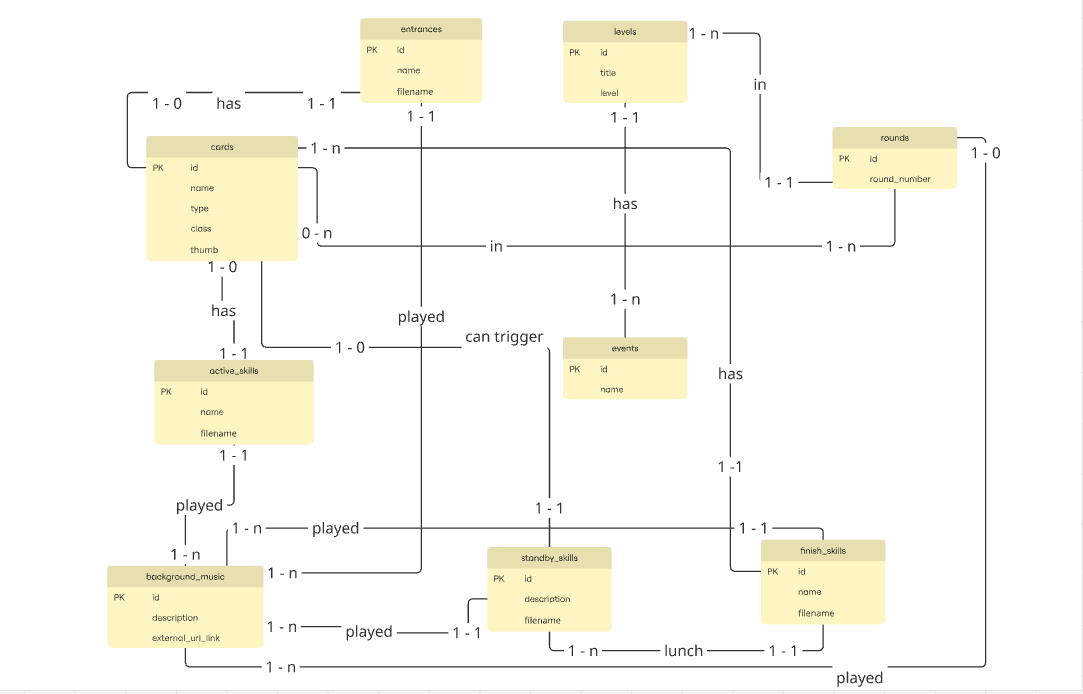
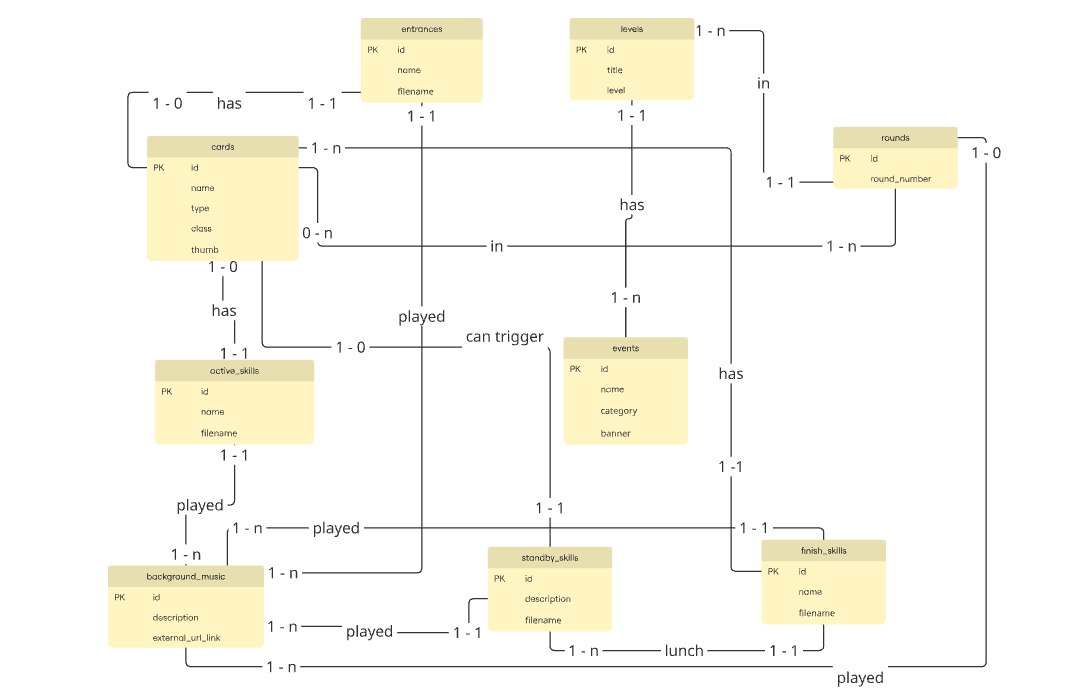
maj des schémas et début de la page event details

diff --git a/dokkan_ost_front/src/app/components/events/event-details/event-details.component.ts b/dokkan_ost_front/src/app/components/events/event-details/event-details.component.ts
@@ -1,0 +1,28 @@
+import { AsyncPipe } from '@angular/common';
+import { Component, inject, input, signal } from '@angular/core';
+import { toObservable } from '@angular/core/rxjs-interop';
+import { EventService } from '@services/event/event.service';
+import { keysToCamel } from 'app/helpers/helpers';
+import { catchError, EMPTY, map, switchMap } from 'rxjs';
+
+@Component({
+  selector: 'app-event-details',
+  imports: [AsyncPipe],
+  templateUrl: './event-details.component.html',
+  styleUrl: './event-details.component.scss',
+})
+export class EventDetailsComponent {
+  private readonly eventService = inject(EventService);
+  error = signal('');
+  id = input<string>('');
+  levels$ = toObservable(this.id).pipe(
+    switchMap((id) => {
+      return this.eventService.getEventById(+id).pipe(
+        catchError(() => {
+          this.error.set("Card can't be fetch");
+          return EMPTY;
+        })
+      );
+    })
+  );
+}

diff --git a/dokkan_ost_front/src/app/services/event/event.service.ts b/dokkan_ost_front/src/app/services/event/event.service.ts
@@ -1,0 +1,25 @@
+import { HttpClient } from '@angular/common/http';
+import { inject, Injectable } from '@angular/core';
+import { Event } from 'app/models/event.interface';
+import { Level } from 'app/models/level.interface';
+import { environment } from 'environments/environment';
+import { Observable } from 'rxjs';
+
+@Injectable({
+  providedIn: 'root',
+})
+export class EventService {
+  private readonly httpService = inject(HttpClient);
+  apiUrl = environment.API_URL;
+  constructor() {}
+
+  getEvents(): Observable<Event[]> {
+    return this.httpService.get<Event[]>(`${this.apiUrl}/events`);
+  }
+
+  getEventById(id: number): Observable<Level[]> {
+    console.log(id);
+
+    return this.httpService.get<Level[]>(`${this.apiUrl}/events/${id}/levels`);
+  }
+}

diff --git a/dokkan_ost_front/src/app/components/events/event-list/event-list.component.ts b/dokkan_ost_front/src/app/components/events/event-list/event-list.component.ts
@@ -1,11 +1,17 @@
-import { Component } from '@angular/core';
+import { AsyncPipe } from '@angular/common';
+import { Component, inject } from '@angular/core';
+import { RouterModule } from '@angular/router';
+import { EventService } from '@services/event/event.service';
+import { environment } from 'environments/environment';
 
 @Component({
   selector: 'app-event-list',
-  imports: [],
+  imports: [AsyncPipe, RouterModule],
   templateUrl: './event-list.component.html',
-  styleUrl: './event-list.component.scss'
+  styleUrl: './event-list.component.scss',
 })
 export class EventListComponent {
-
+  private readonly eventService = inject(EventService);
+  apiUrl = environment.API_URL;
+  events$ = this.eventService.getEvents();
 }

diff --git a/dokkan_ost_back/src/routes/event_routes.ts b/dokkan_ost_back/src/routes/event_routes.ts
@@ -14,7 +14,20 @@ eventRoutes.get("/events", async (req: Request, res: Response) => {
     res.status(500).json({ error: "Error fetching events" });
   }
 });
+eventRoutes.get("/events/:id/levels", async (req: Request, res: Response) => {
+  try {
+    const { id } = req.params;
+    const text = "SELECT * FROM levels WHERE levels.event_id = $1";
 
+    const values = [id];
+    const results = await pool.query(text, values);
+
+    res.json(results.rows);
+  } catch (error) {
+    console.error(error);
+    res.status(500).json({ error: "Error fetching event" });
+  }
+});
 eventRoutes.post("/events", async (req: Request, res: Response) => {
   const { id, name, category, banner } = req.body;
   const event: Event = {

diff --git a/dokkan_ost_front/src/app/components/events/event-details/event-details.component.spec.ts b/dokkan_ost_front/src/app/components/events/event-details/event-details.component.spec.ts
@@ -1,0 +1,23 @@
+import { ComponentFixture, TestBed } from '@angular/core/testing';
+
+import { EventDetailsComponent } from './event-details.component';
+
+describe('EventDetailsComponent', () => {
+  let component: EventDetailsComponent;
+  let fixture: ComponentFixture<EventDetailsComponent>;
+
+  beforeEach(async () => {
+    await TestBed.configureTestingModule({
+      imports: [EventDetailsComponent]
+    })
+    .compileComponents();
+
+    fixture = TestBed.createComponent(EventDetailsComponent);
+    component = fixture.componentInstance;
+    fixture.detectChanges();
+  });
+
+  it('should create', () => {
+    expect(component).toBeTruthy();
+  });
+});

diff --git a/dokkan_ost_front/src/app/components/events/events.routes.ts b/dokkan_ost_front/src/app/components/events/events.routes.ts
@@ -1,10 +1,15 @@
 import { Route } from '@angular/router';
 import { EventListComponent } from './event-list/event-list.component';
+import { EventDetailsComponent } from './event-details/event-details.component';
 
 const EVENTS_ROUTES: Route[] = [
   {
     path: '',
     component: EventListComponent,
+  },
+  {
+    path: ':id/levels',
+    component: EventDetailsComponent,
   },
 ];
 

diff --git a/dokkan_ost_front/src/app/services/event/event.service.spec.ts b/dokkan_ost_front/src/app/services/event/event.service.spec.ts
@@ -1,0 +1,16 @@
+import { TestBed } from '@angular/core/testing';
+
+import { EventService } from './event.service';
+
+describe('EventService', () => {
+  let service: EventService;
+
+  beforeEach(() => {
+    TestBed.configureTestingModule({});
+    service = TestBed.inject(EventService);
+  });
+
+  it('should be created', () => {
+    expect(service).toBeTruthy();
+  });
+});

diff --git a/dokkan_ost_front/src/app/components/events/event-details/event-details.component.scss b/dokkan_ost_front/src/app/components/events/event-details/event-details.component.scss
@@ -1,0 +1,14 @@
+.level {
+  width: 80%;
+  height: 90px;
+  margin: 20px auto;
+  border-radius: 15px;
+  border: 1px solid white;
+  background: rgb(27, 27, 27);
+  display: flex;
+  align-items: center;
+  justify-content: center;
+  font-size: 2rem;
+  font-family: "Segoe UI", Tahoma, Geneva, Verdana, sans-serif;
+  cursor: pointer;
+}

diff --git a/dokkan_ost_front/src/app/components/events/event-list/event-list.component.html b/dokkan_ost_front/src/app/components/events/event-list/event-list.component.html
@@ -1,4 +1,7 @@
-<div>
-    <img src="./soon.png" alt="">
-
-</div>
+<section>
+    <div class="event">
+        @for (event of events$ | async; track $index) {
+        <img routerLink="/events/{{event.id}}/levels" [src]="apiUrl + '/events/' + event.banner" alt="">
+        }
+    </div>
+</section>

diff --git a/dokkan_ost_front/src/app/components/events/event-list/event-list.component.scss b/dokkan_ost_front/src/app/components/events/event-list/event-list.component.scss
@@ -1,4 +1,13 @@
-div {
-  width: 100%;
-  text-align: center;
+.event {
+  display: flex;
+  align-items: center;
+  gap: 20px;
+  width: 90%;
+  margin: 10px auto;
+  justify-content: center;
+  flex-wrap: wrap;
+}
+
+img {
+  cursor: pointer;
 }

diff --git a/dokkan_ost_front/src/app/components/events/event-details/event-details.component.html b/dokkan_ost_front/src/app/components/events/event-details/event-details.component.html
@@ -1,0 +1,7 @@
+@for ( level of levels$ | async; track $index) {
+
+<div class="level">
+    <span>{{'Level ' + level.level + ' : ' + level.title}}</span>
+
+</div>
+}

diff --git a/dokkan_ost_front/src/app/models/event.interface.ts b/dokkan_ost_front/src/app/models/event.interface.ts
@@ -1,0 +1,6 @@
+export interface Event {
+  id: number;
+  name: string;
+  category: string;
+  banner: string;
+}
